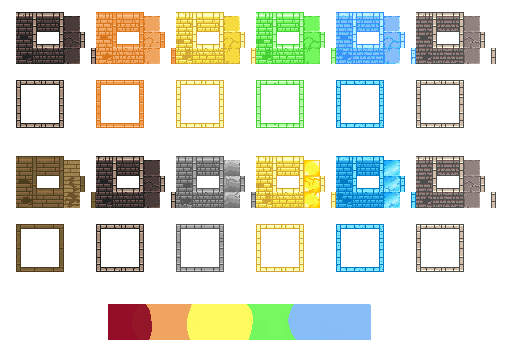
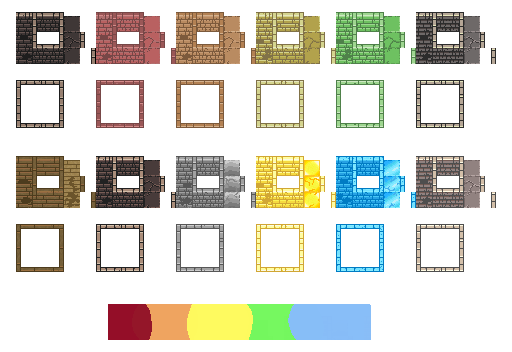
# Tiles workaround for interviews

diff --git a/src/scenes/Tutorial.ts b/src/scenes/Tutorial.ts
@@ -5,6 +5,7 @@ import Monster from "~/enemies/Monster";
 import { sceneEvents } from "~/events/EventCenter";
 import { ConstantsTiles, LogConstant, TileSetName } from "~/utils/Const";
 import { Global } from "~/utils/Global";
+import KeysGenerator from "~/utils/KeysGenerator";
 import Log from "~/utils/Log";
 import FileChild from "./FileChild";
 import Game from "./Game";
@@ -12,6 +13,8 @@ import Game from "./Game";
 export default class Tutorial extends Game{
     private exitText = "exit_place.php"
     private textColor = "#000000"
+    private swapKey = "P"
+    private cThemeId = 0
     
     constructor(){
         super('tutorial')
@@ -25,6 +28,22 @@ export default class Tutorial extends Game{
         } else {
             super.digProcess(fileObject)
         }
+    }
+
+    swapTheme(){
+        this.cThemeId = (this.cThemeId + 1) % TileSetName.tilesets.length
+        Global.tileset = TileSetName.tilesets[this.cThemeId]
+        this.restart()
+    }
+
+    clearKeys(){
+        this.input.keyboard.removeCapture(this.swapKey)
+        super.clearKeys()
+    }
+
+    preload(){
+        this.input.keyboard.addKey(this.swapKey).on('down', this.swapTheme, this)
+        super.preload()
     }
 
     create(data) {
@@ -371,22 +390,22 @@ export default class Tutorial extends Game{
         this.addKey(
             (centerTiles.x + centerTiles.size / 2) * Game.TILE_SIZE, 
             (centerTiles.y - 0.5) * Game.TILE_SIZE, 
-            "Z")
+            KeysGenerator.playerMovements.up[0])
 
         this.addKey(
             (centerTiles.x + centerTiles.size / 2) * Game.TILE_SIZE, 
             (centerTiles.y + centerTiles.size + 0.5) * Game.TILE_SIZE, 
-            "S")
+            KeysGenerator.playerMovements.down[0])
 
         this.addKey(
             (centerTiles.x - 0.5) * Game.TILE_SIZE, 
             (centerTiles.y + centerTiles.size / 2) * Game.TILE_SIZE, 
-            "Q")
+            KeysGenerator.playerMovements.left[0])
 
         this.addKey(
             (centerTiles.x + centerTiles.size + 0.5) * Game.TILE_SIZE, 
             (centerTiles.y + centerTiles.size / 2) * Game.TILE_SIZE, 
-            "D")
+            KeysGenerator.playerMovements.right[0])
 
 
         let sizeKeyDistance = 2.5
@@ -405,7 +424,9 @@ export default class Tutorial extends Game{
             this.sound.play('main_theme', { loop: true, volume: Game.MUSIC_VOLUME })
         }
 
-        this.generateFileLimitation(this.dungeon_size - Game.NB_TILE_PER_FILE - 1, 2, Game.NB_TILE_PER_FILE - 1, this.sonarQubeData.children[this.sonarQubeData.children.length - 1])
+
+        // Settings room
+        //this.generateFileLimitation(this.dungeon_size - Game.NB_TILE_PER_FILE - 1, 2, Game.NB_TILE_PER_FILE - 1, this.sonarQubeData.children[this.sonarQubeData.children.length - 1])
 
         
         
@@ -505,7 +526,7 @@ export default class Tutorial extends Game{
         this.addKey(
             (roomExampleX - 0.8) * Game.TILE_SIZE + (Game.NB_TILE_PER_FILE + 2)*Game.TILE_SIZE/2, 
             (roomExampleY + 0.5) * Game.TILE_SIZE + (Game.NB_TILE_PER_FILE + 2)*Game.TILE_SIZE/2,
-            "A")
+            KeysGenerator.playerControls.dig[0])
 
 
         this.add.text(

diff --git a/src/utils/Const.ts b/src/utils/Const.ts
@@ -79,13 +79,17 @@ export abstract class TileSetName{
     static readonly GRAY_RAINBOW2_CHEAT = "grayscale_rainbow2_cheat"
 
     
+    // static tilesets: string[] = [
+    //     TileSetName.FUNKY,
+    //     TileSetName.GRAY_DARK,
+    //     TileSetName.GRAY_LIGHT,
+    //     TileSetName.RAINBOW,
+    //     TileSetName.MATERIALS,
+    //     TileSetName.GRAY_RAINBOW2,
+    //     TileSetName.GRAY_RAINBOW2_CHEAT
+    // ]
     static tilesets: string[] = [
         TileSetName.FUNKY,
-        TileSetName.GRAY_DARK,
-        TileSetName.GRAY_LIGHT,
-        TileSetName.RAINBOW,
-        TileSetName.MATERIALS,
-        TileSetName.GRAY_RAINBOW2,
-        TileSetName.GRAY_RAINBOW2_CHEAT
+        TileSetName.RAINBOW
     ]
 }

diff --git a/src/scenes/Game.ts b/src/scenes/Game.ts
@@ -142,8 +142,6 @@ export default class Game extends Phaser.Scene{
         }
 
 
-        console.log(this.playerControls)
-
         this.playerControls.openMap.forEach(element => { element.on('down', this.startMap, this) });
         this.playerControls.freeze.forEach(element => { element.on('down', this.handleFreeze, this) });
 

diff --git a/src/utils/Global.ts b/src/utils/Global.ts
@@ -3,5 +3,5 @@ import { TileSetName } from "./Const"
 export abstract class Global {
     static fileTree
     static issues: any[] = []
-    static tileset: string = TileSetName.MATERIALS
+    static tileset: string = TileSetName.tilesets[0]
 }
